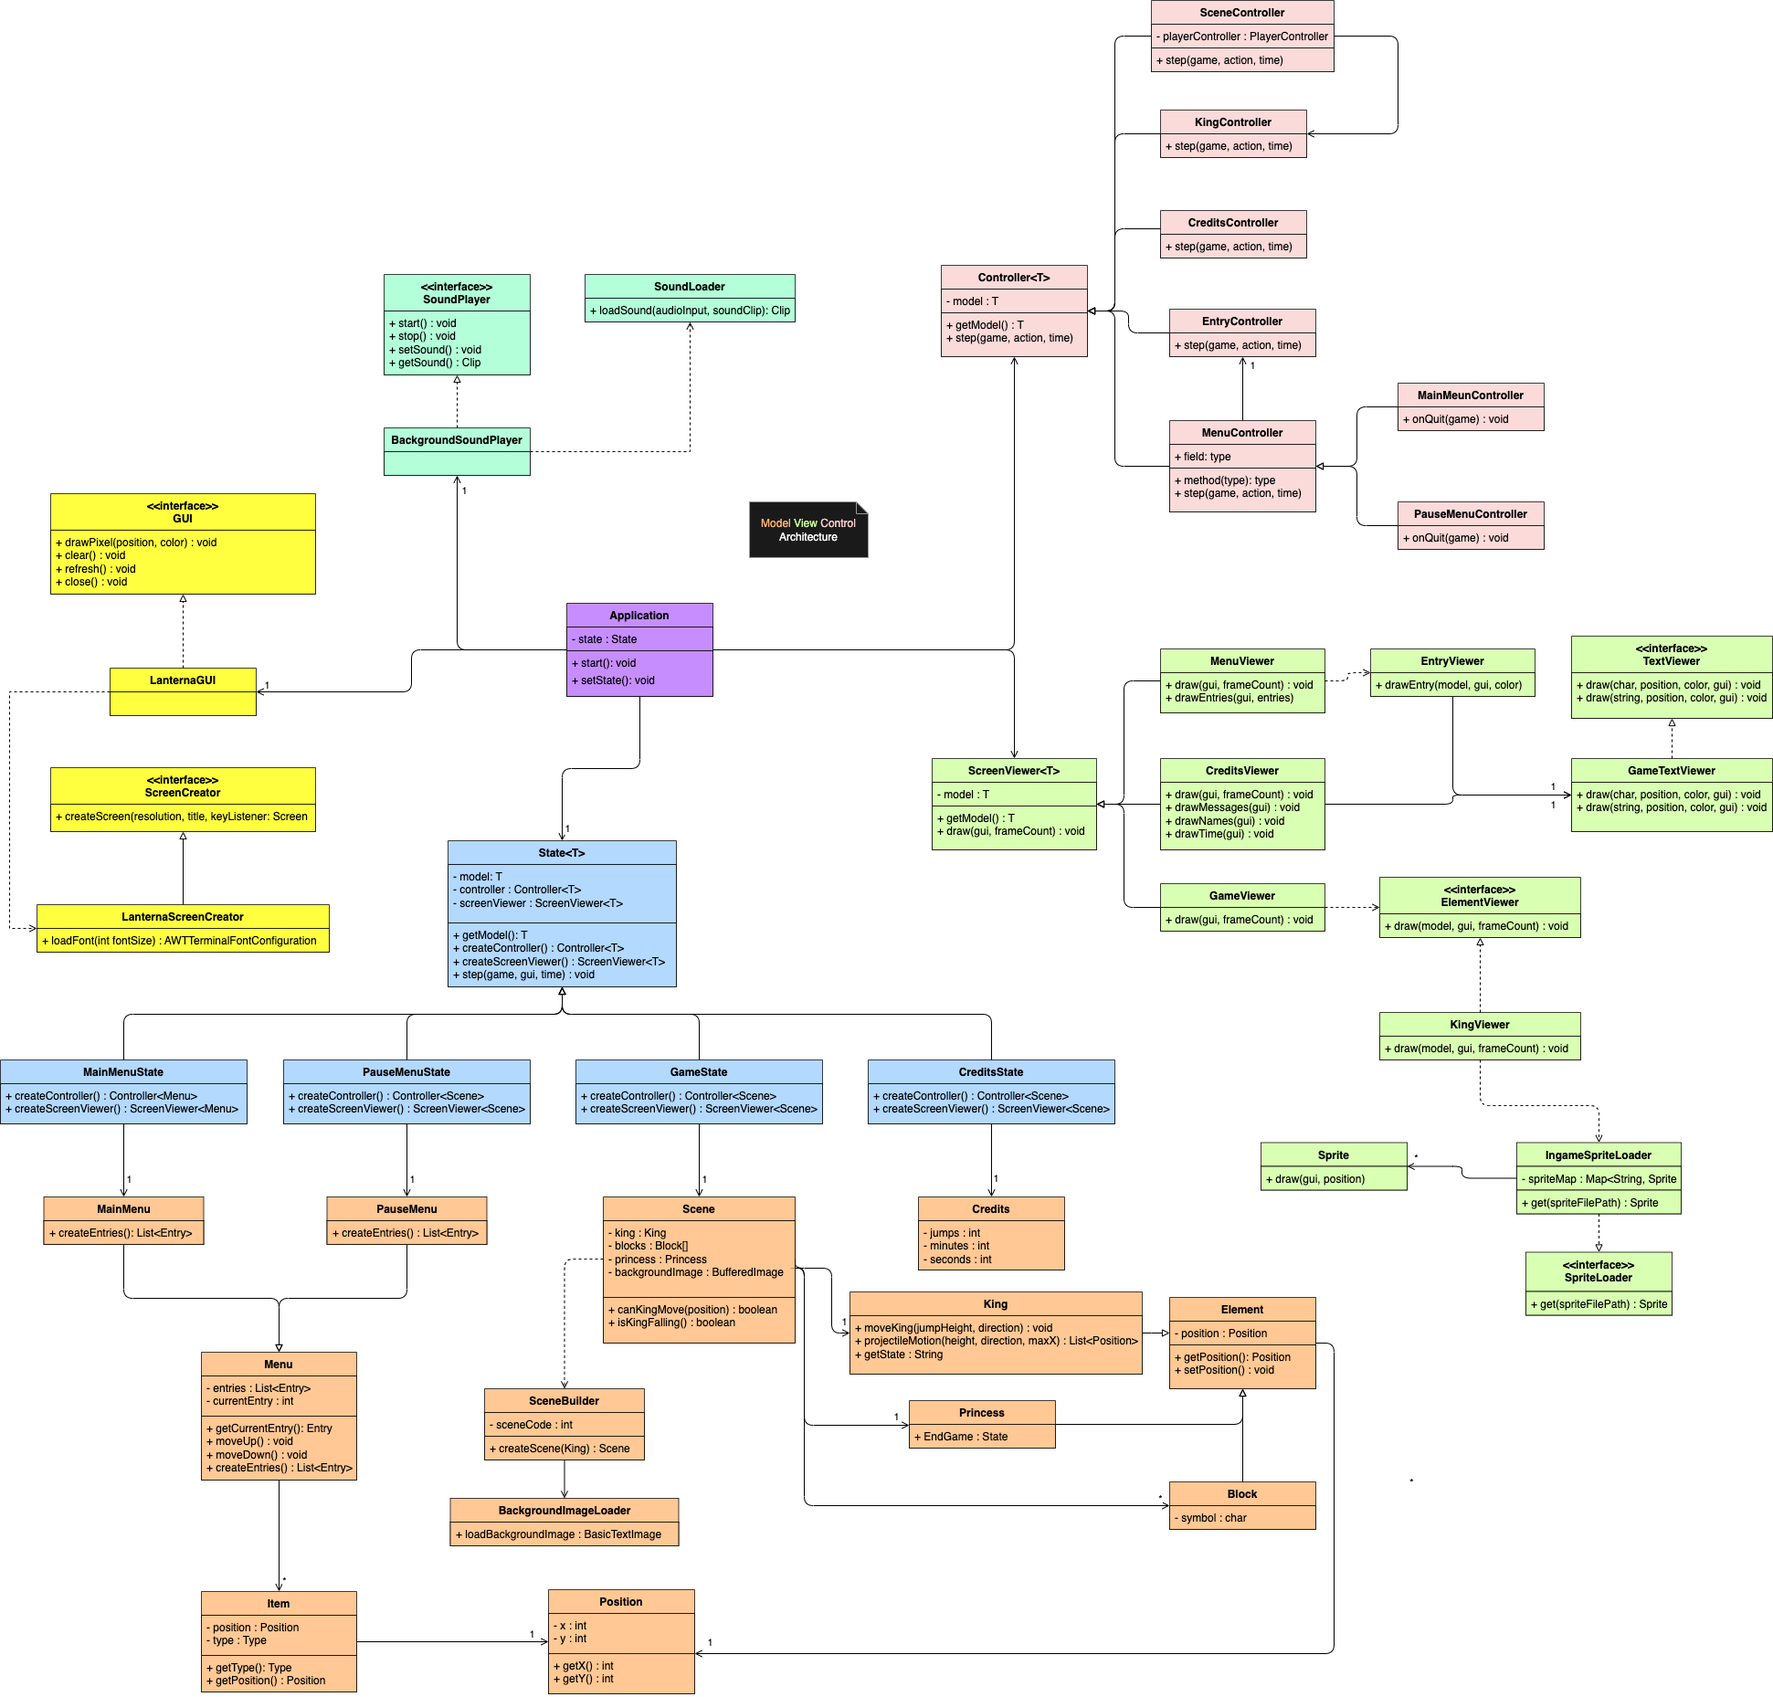
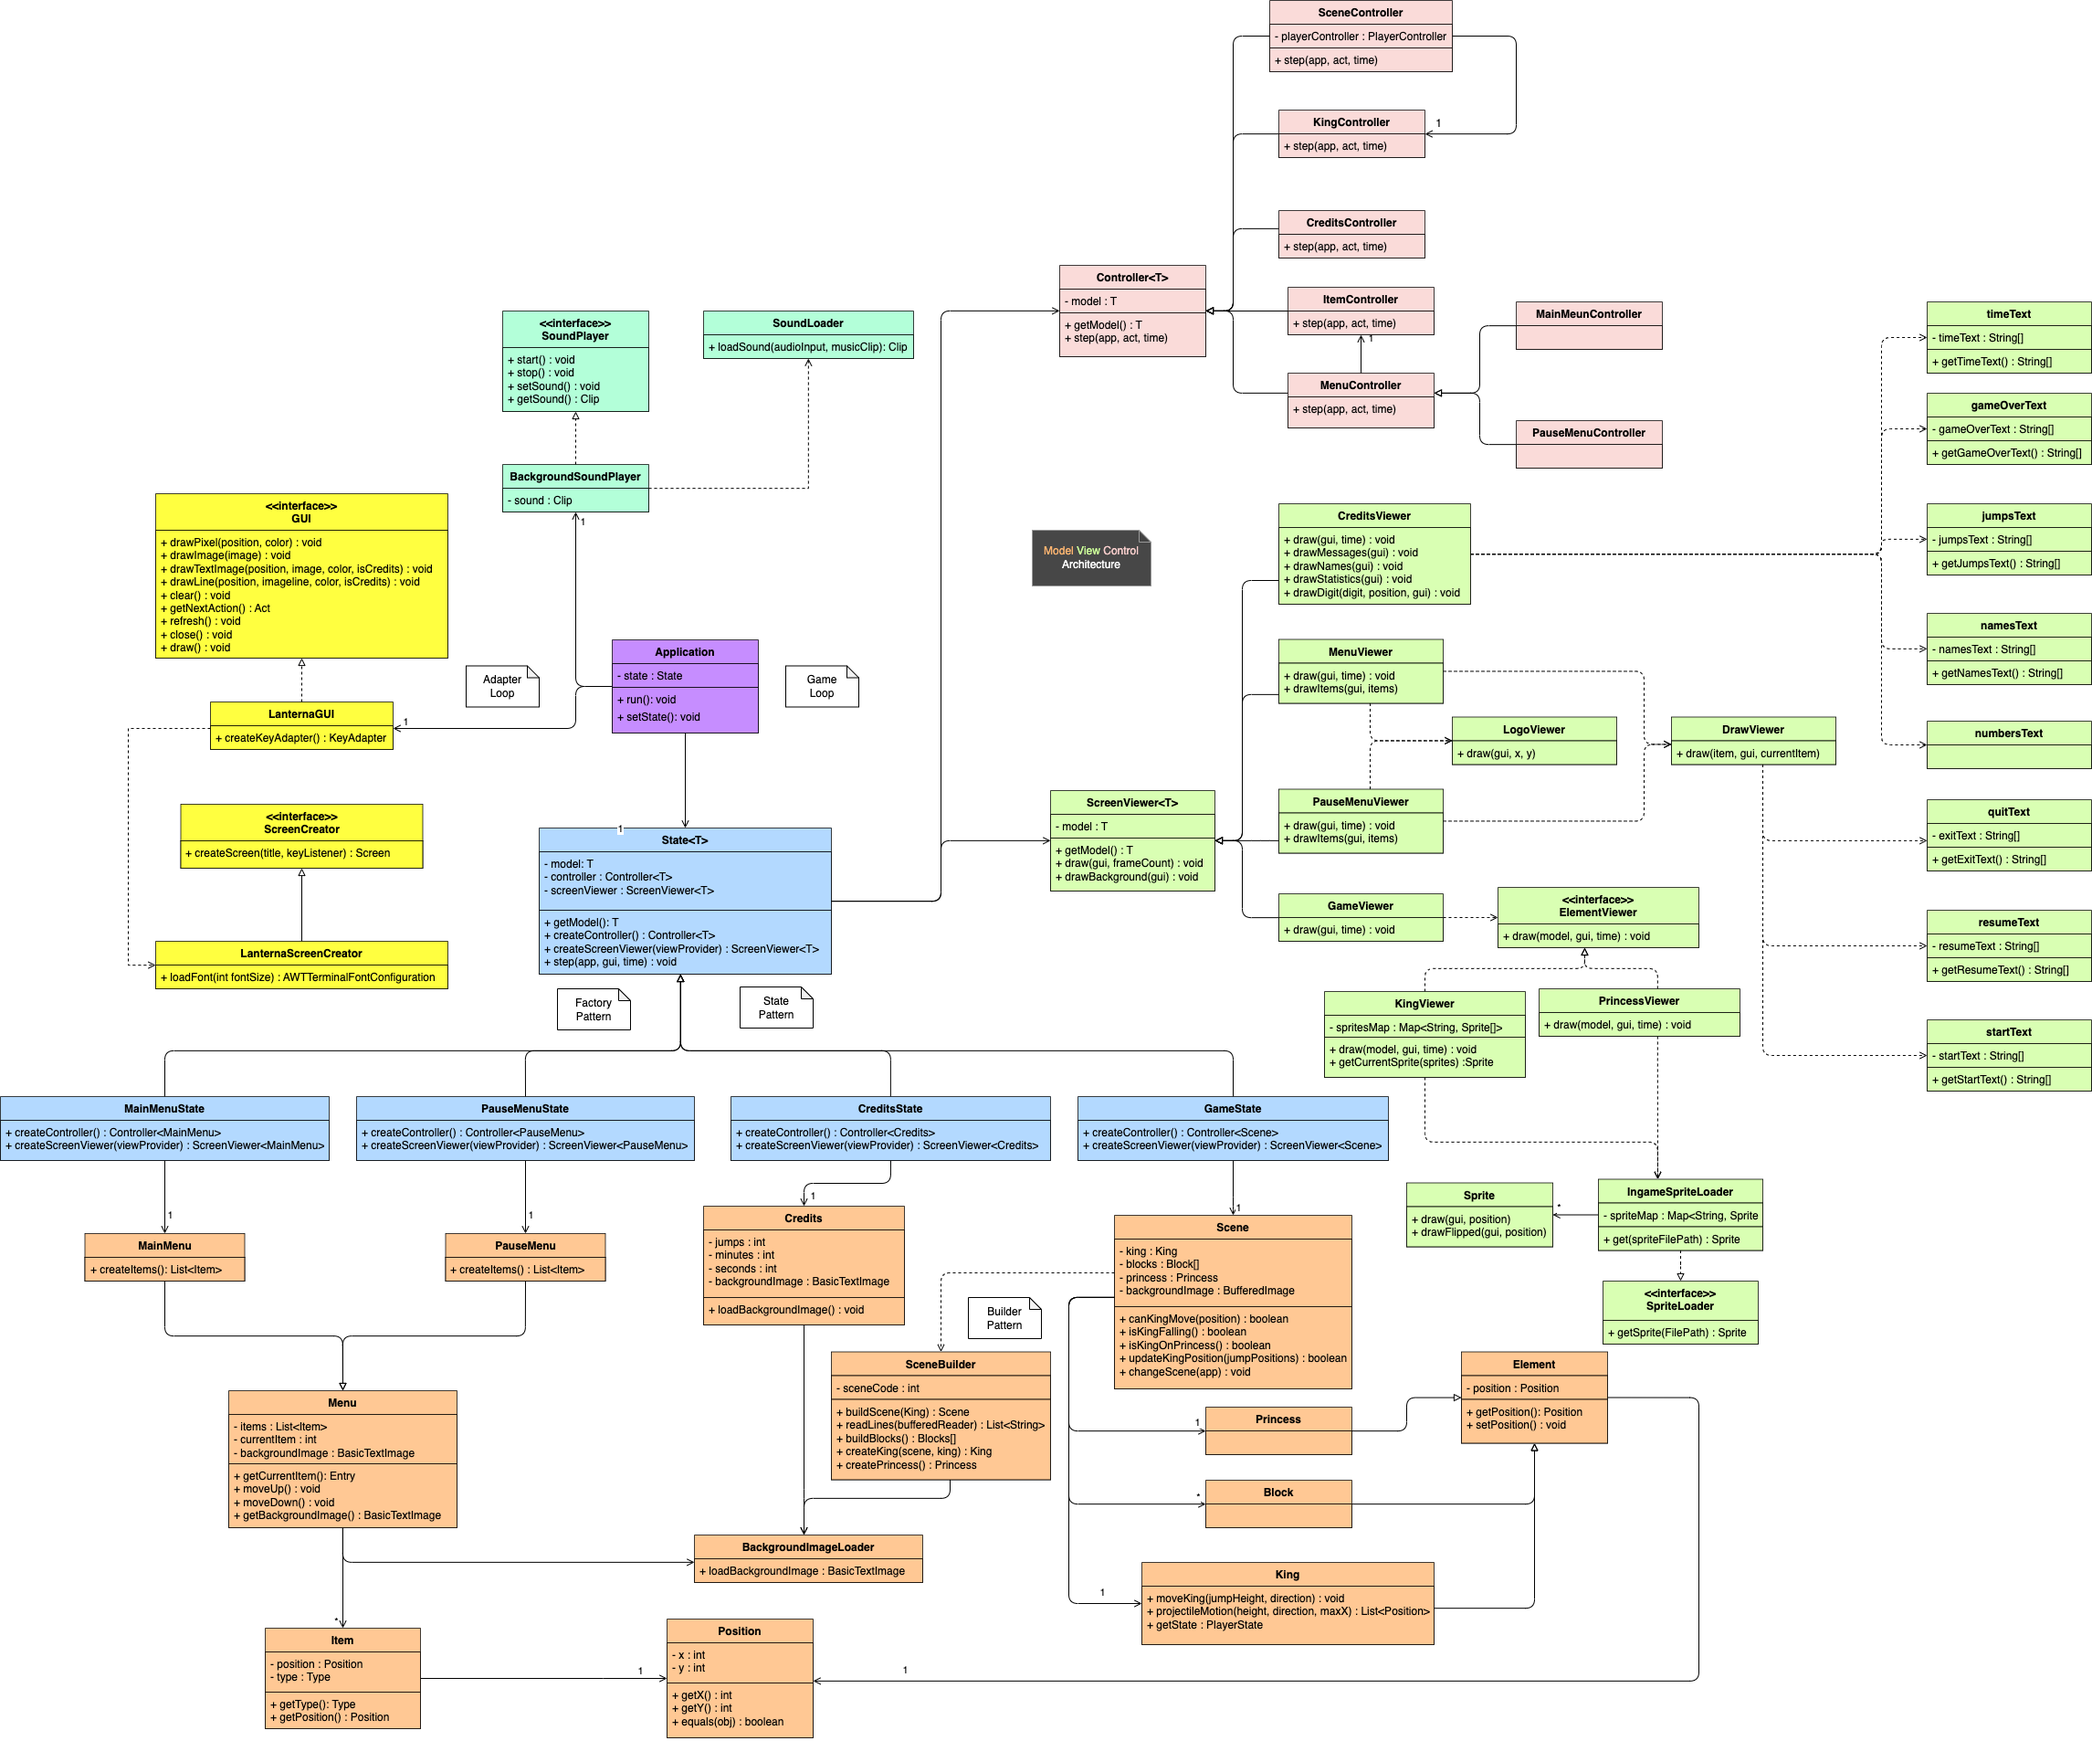
changes to ReadMe and addition of necessary files

diff --git a/documents/README.md b/documents/README.md
@@ -5,7 +5,7 @@
 </p>
 
 ## GAME DESCRIPTION
-<p>Jump King is a 2D platformer game where the main objective is to reach the top of the map. However, if you make a mistake, you risk falling and losing a significant part of your progress.
+<p>Jump King is a 2D platformer game where the main objective is to reach the top of the map in the fewest jumps possible. However, if you make a mistake, you risk falling and losing a significant part of your progress.
 </p>
 
 <p>This game was developed for the hardcore players that are patient, 
@@ -20,17 +20,17 @@ precise and resilient. It has simple controls, no checkpoints and beautiful pixe
 ## Table of Contents
 
 - [List of Features](#list-of-features)
-- [Game Controls](#game-controls)
 - [Notes About Features](#notes-about-features)
+- [Game Controls](#game-controls)
+- [Game Screenshots and Mockups](#game-screenshots-and-mockups)
 - [General Structure](#general-structure)
 - [Code Design](#design)
   - [Model-View-Controller](#code-structure)
   - [Game Loop](#game-loop)
-  - [(Game) State Pattern](#multiple-game-states)
+  - [State Pattern](#multiple-game-states)
+  - [Adapter Pattern](#adapter-pattern)
   - [Builder Pattern](#builder-pattern)
   - [Factory Pattern](#factory-pattern)
-  - [State Pattern](#state-pattern)
-  - [Singleton](#singleton)
 - [Code Smells](#known-code-smells)
 - [Code Testing](#testing)
 - [Self Evaluation](#self-evaluation)
@@ -47,33 +47,67 @@ precise and resilient. It has simple controls, no checkpoints and beautiful pixe
 - **Credits** - When finishing the game, either by quitting or reaching the `Princess` the user is presented with an ending screen, where he can visualize the number of jumps and the total time of taken. Once done, the user can return to the main menu using the `q` button.
 
 ## Notes About Features
-
 Initially, we aimed to expand the player's movement options through the implementation of a rebounding mechanic, where, when the player would collide with a wall he would bounce back and fall down.
 However, as we progressed through the development of the game and as time passed, we ended up abandoning this feature in favor of allowing for other inputs to be processed while the `King` is falling including jumping. As a result, this initialially planned feature was discarded and we have no plans of implementing it in the future as we're very satisfied with the result of our efforts.
 
 ## GAME CONTROLS
 - **Movement** - The player can move left and right using the `←` and `→` keys, respectively.
-- **Jump** - The player can jump using the `↑` key. After pressing it once the `King` will prepare to jump, the longer the key is left, the higher the player will jump. The `King`jumps after a second key input is placed, jumping either upwards, towards the left or towards the right.
+- **Jump** - The player can jump using the `↑` key. After paressing it once the `King` will prepare to jump, the longer the key is left, the higher the player will jump. The `King`jumps after a second key input is placed, jumping either upwards, towards the left or towards the right.
 - **Pause** - The player can pause the game by pressing the `p` key. This will bring up the `pause menu`, where the player can choose to resume the game, or exit the application.
 - **Quit** - The player can quit the game at any time by pressing the `q` key. This will bring up the `credits`, which will then lead to the `main menu`, where the player can choose to start a new game or quit the application.
 
-## General Structure
-
 ## GAME SCREENSHOTS AND MOCKUPS
-**Starting Point**
+<h4 align="center">
+  King Character Design
+</h4>
 <p align="center">
-    <img src="resources/screenshots/starting.png" alt="starting point">
+    <img src="resources/mockups/king.gif" alt="starting point">
 </p>
 
-**Whole Map Preview**
+<h4 align="center">
+  Sprite Sheet
+</h4>
+<p align="center">
+    <img src="resources/mockups/Jump King pixel sheet.png" alt="Sprite Sheet">
+</p>
+
+<h4 align="center">
+  Start Menu
+</h4>
+<p align="center">
+    <img src="resources/screenshots/main-menu.png" alt="main menu">
+</p>
+
+<h4 align="center">
+  Credits
+</h4>
+<p align="center">
+    <img src="resources/screenshots/credits.png" alt="main menu">
+</p>
+
+<h4 align="center">
+  Level and Gameplay Showcase
+</h4>
+<p align="center">
+    <img src="resources/screenshots/level-showcase-1.gif" alt="level showcase 1">
+</p>
+<p align="center">
+    <img src="resources/screenshots/level-showcase-2.gif" alt="level showcase 2">
+</p>
+<p align="center">
+    <img src="resources/screenshots/level-showcase-3.gif" alt="level showcase 3">
+</p>
+
+<h4 align="center">
+  Map Preview
+</h4>
 <p align="center">
     <img src="resources/mockups/Redcrown_woods.png" alt="whole map">
 </p>
 
-
-## Sprite Sheet
+## General Structure
 <p align="center">
-    <img src="resources/mockups/Jump King pixel sheet.png" alt="Sprite Sheet">
+    <img src="resources/uml/Structure%20UML.png" alt="UML">
 </p>
 
 ## Design Patterns and Architecure
@@ -115,11 +149,6 @@ Here is the state machine for the game:
 - **Builder Pattern**: It makes the construction of complex objects more manageable and readable. However, it can add unnecessary complexity if the objects being constructed are simple.
 - **Factory Pattern**: It provides flexibility in object creation and decouples the client code from the concrete classes. However, it can make the code harder to follow due to the added layer of abstraction.
 - **State Pattern**: It makes the code more flexible and easier to maintain by encapsulating state-specific behavior. However, it can lead to an increase in the number of classes and overall complexity.
-
-## UML CLASS STRUCTURES AND OVERVIEW
-<p align="center">
-    <img src="resources/uml/Structure%20UML.png" alt="UML">
-</p>
 
 ## Known Code Smells
 
